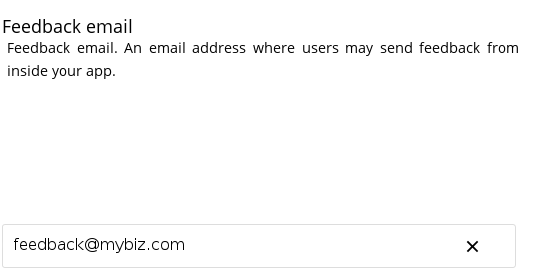
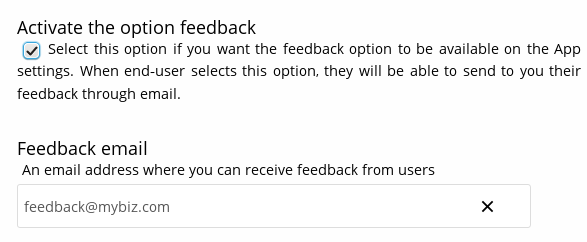
new ios ownbrander features

diff --git a/admin_manual/enterprise_ios_app/publishing_ios_app_7.rst b/admin_manual/enterprise_ios_app/publishing_ios_app_7.rst
@@ -86,7 +86,9 @@ If you have online help, enter the URL here.
 
 .. figure:: ../images/ownbrander-24.png
 
-Enter a **Feedback email** address, if you have one.
+**Activate the option feedback** creates an option for your users to either 
+enable or not enable the feedback option on their devices. If you enable this, 
+enter your **Feedback email** address.
 
 .. figure:: ../images/ownbrander-25.png
 
@@ -98,6 +100,27 @@ Check **Show a "new account" link in app** to allow new users to request a new
 account.
 
 .. figure:: ../images/ownbrander-27.png
+
+Upload an icon that will be displayed by default when there is no file preview 
+to display.
+
+.. figure:: ../images/ownbrander-30.png
+
+By default, sharing by public URL is enabled. Public share links allow your 
+users to share files with anyone. This option allows you to disable public link 
+sharing.
+
+.. figure:: ../images/ownbrander-31.png
+
+You may disable background transfers if you are using mobile device management 
+(MDM), such as Mobile Iron, that does not support background jobs, or if you 
+simply do not want to allow the app to work in the background. By default, 
+the ownCloud iOS app supports background file transfers by taking
+advantage of `Background Execution. 
+<https://developer.apple.com/library/ios/documentation/iPhone/Conceptual/
+iPhoneOSProgrammingGuide/BackgroundExecution/BackgroundExecution.html>`_
+
+.. figure:: ../images/ownbrander-32.png
 
 That completes the required elements of your branded iOS app.
 
